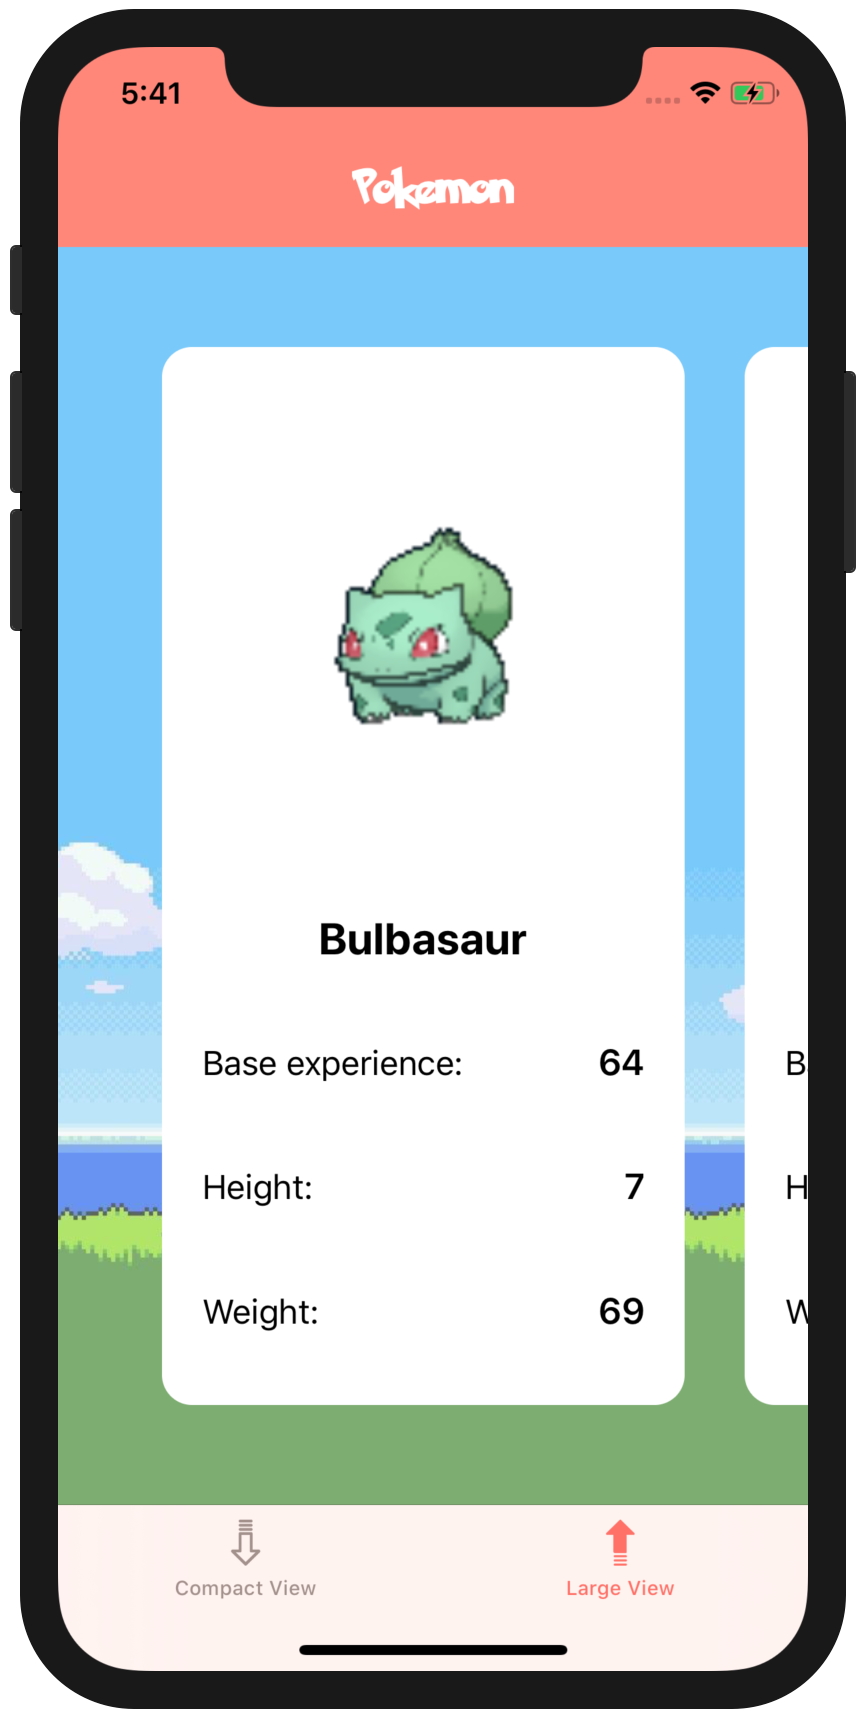
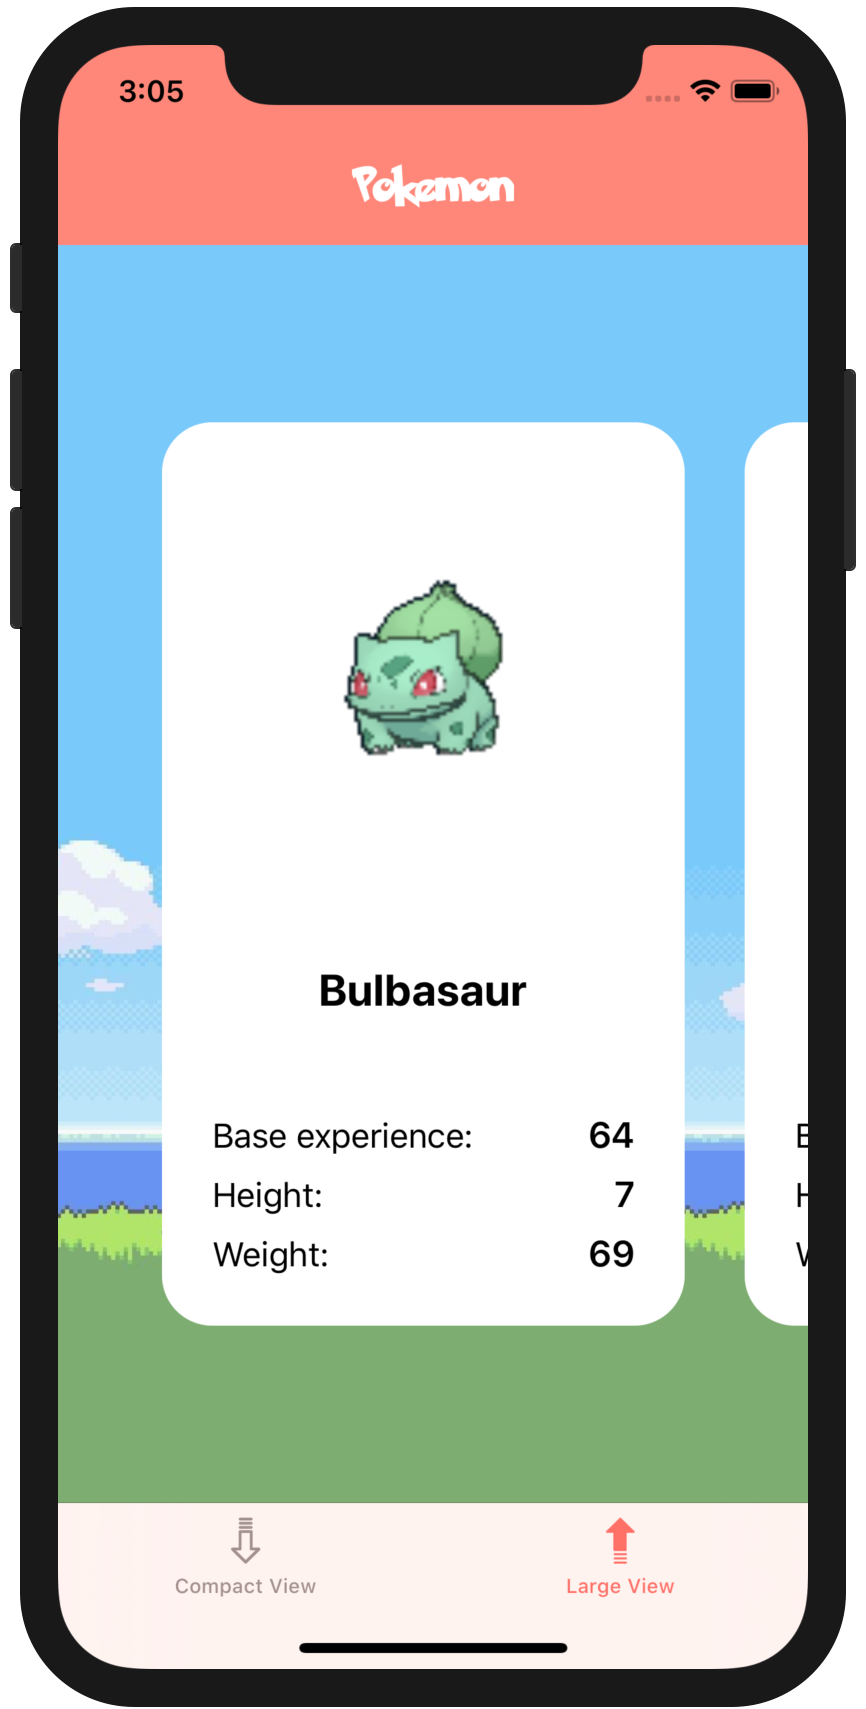
Clean up
Code clean up on the entire project.

diff --git a/Week 06/Pokedex/Pokedex/Views/LayoutCoordinator.swift b/Week 06/Pokedex/Pokedex/Views/LayoutCoordinator.swift
@@ -29,6 +29,7 @@
 /// LIABILITY, WHETHER IN AN ACTION OF CONTRACT, TORT OR OTHERWISE, ARISING FROM,
 /// OUT OF OR IN CONNECTION WITH THE SOFTWARE OR THE USE OR OTHER DEALINGS IN
 /// THE SOFTWARE.
+
 import UIKit
 
 
@@ -44,7 +45,7 @@ class LayoutCoordinator {
     }
   }
   
-  
+
   private static func configureCompactCell() -> UICollectionViewCompositionalLayout {
     let sectionProvider = { (sectionIndex: Int, layoutEnvironment: NSCollectionLayoutEnvironment) -> NSCollectionLayoutSection? in
 
@@ -72,11 +73,13 @@ class LayoutCoordinator {
       let itemSize = NSCollectionLayoutSize(widthDimension: .fractionalWidth(1.0),
                                             heightDimension: .fractionalHeight(1.0))
       let item = NSCollectionLayoutItem(layoutSize: itemSize)
-      item.contentInsets = NSDirectionalEdgeInsets(top: 50, leading: 10, bottom: 50, trailing: 10)
+      item.contentInsets = NSDirectionalEdgeInsets(top: 10, leading: 10, bottom: 10, trailing: 10)
       
       let groupSize = NSCollectionLayoutSize(widthDimension: .fractionalWidth(0.75),
-                                             heightDimension: .fractionalHeight(1.0))
+                                             heightDimension: .fractionalHeight(0.75))
       let group = NSCollectionLayoutGroup.horizontal(layoutSize: groupSize, subitems: [item])
+      group.edgeSpacing = NSCollectionLayoutEdgeSpacing(leading: nil, top: .flexible(0),
+                                                       trailing: nil, bottom: .flexible(0))
 
       let section = NSCollectionLayoutSection(group: group)
       section.orthogonalScrollingBehavior = .groupPagingCentered

diff --git a/Week 06/Pokedex/Pokedex/Resources/csv.swift b/Week 06/Pokedex/Pokedex/Resources/csv.swift
@@ -5,12 +5,14 @@
 
 import Foundation
 
+
 open class CSV {
     open var headers: [String] = []
     open var rows: [Dictionary<String, String>] = []
     open var columns = Dictionary<String, [String]>()
     var delimiter = CharacterSet(charactersIn: ",")
     
+  
     public init(content: String?, delimiter: CharacterSet, encoding: UInt) throws{
         if let csvStringToParse = content{
             self.delimiter = delimiter
@@ -25,6 +27,7 @@ open class CSV {
         }
     }
     
+  
     public convenience init(contentsOfURL url: String) throws {
         let comma = CharacterSet(charactersIn: ",")
         let csvString: String?
@@ -41,6 +44,7 @@ open class CSV {
         return lines[0].components(separatedBy: self.delimiter)
     }
     
+  
     func parseRows(fromLines lines: [String]) -> [Dictionary<String, String>] {
         var rows: [Dictionary<String, String>] = []
         
@@ -64,6 +68,7 @@ open class CSV {
         return rows
     }
     
+  
     func parseColumns(fromLines lines: [String]) -> Dictionary<String, [String]> {
         var columns = Dictionary<String, [String]>()
         
@@ -74,4 +79,5 @@ open class CSV {
         
         return columns
     }
+  
 }

diff --git a/Week 06/Pokedex/Pokedex/Resources/PokemonGenerator.swift b/Week 06/Pokedex/Pokedex/Resources/PokemonGenerator.swift
@@ -29,6 +29,7 @@
 /// LIABILITY, WHETHER IN AN ACTION OF CONTRACT, TORT OR OTHERWISE, ARISING FROM,
 /// OUT OF OR IN CONNECTION WITH THE SOFTWARE OR THE USE OR OTHER DEALINGS IN
 /// THE SOFTWARE.
+
 import Foundation
 
 
@@ -68,13 +69,7 @@ class PokemonGenerator {
     } catch let error {
       print("\(error.localizedDescription)")
     }
-    
     return pokemons
-  }
-  
-  
-  func test() -> [Pokemon] {
-    return generatePokemons()
   }
   
 }

diff --git a/Week 06/Pokedex/Pokedex/Views/LargePokemonCollectionViewCell.swift b/Week 06/Pokedex/Pokedex/Views/LargePokemonCollectionViewCell.swift
@@ -29,6 +29,7 @@
 /// LIABILITY, WHETHER IN AN ACTION OF CONTRACT, TORT OR OTHERWISE, ARISING FROM,
 /// OUT OF OR IN CONNECTION WITH THE SOFTWARE OR THE USE OR OTHER DEALINGS IN
 /// THE SOFTWARE.
+
 import UIKit
 
 
@@ -66,7 +67,7 @@ class LargePokemonCollectionViewCell: UICollectionViewCell {
   
   
   private func configure() {
-    layer.cornerRadius = 15
+    layer.cornerRadius = 25
   }
   
 }

diff --git a/Week 06/Pokedex/Pokedex/Supporting files/AppDelegate.swift b/Week 06/Pokedex/Pokedex/Supporting files/AppDelegate.swift
@@ -32,6 +32,7 @@
 
 import UIKit
 
+
 @UIApplicationMain
 class AppDelegate: UIResponder, UIApplicationDelegate {
   func application(_ application: UIApplication, didFinishLaunchingWithOptions launchOptions: [UIApplication.LaunchOptionsKey: Any]?) -> Bool {

diff --git a/Week 06/Pokedex/Pokedex/Models/Format.swift b/Week 06/Pokedex/Pokedex/Models/Format.swift
@@ -29,6 +29,7 @@
 /// LIABILITY, WHETHER IN AN ACTION OF CONTRACT, TORT OR OTHERWISE, ARISING FROM,
 /// OUT OF OR IN CONNECTION WITH THE SOFTWARE OR THE USE OR OTHER DEALINGS IN
 /// THE SOFTWARE.
+
 import Foundation
 
 

diff --git a/Week 06/Pokedex/Pokedex/Models/Pokemon.swift b/Week 06/Pokedex/Pokedex/Models/Pokemon.swift
@@ -29,6 +29,7 @@
 /// LIABILITY, WHETHER IN AN ACTION OF CONTRACT, TORT OR OTHERWISE, ARISING FROM,
 /// OUT OF OR IN CONNECTION WITH THE SOFTWARE OR THE USE OR OTHER DEALINGS IN
 /// THE SOFTWARE.
+
 import Foundation
 
 

diff --git a/Week 06/Pokedex/Pokedex/Models/Section.swift b/Week 06/Pokedex/Pokedex/Models/Section.swift
@@ -29,6 +29,7 @@
 /// LIABILITY, WHETHER IN AN ACTION OF CONTRACT, TORT OR OTHERWISE, ARISING FROM,
 /// OUT OF OR IN CONNECTION WITH THE SOFTWARE OR THE USE OR OTHER DEALINGS IN
 /// THE SOFTWARE.
+
 import Foundation
 
 

diff --git a/Week 06/Pokedex/Pokedex/Controllers/CompactFormatViewController.swift b/Week 06/Pokedex/Pokedex/Controllers/CompactFormatViewController.swift
@@ -29,6 +29,7 @@
 /// LIABILITY, WHETHER IN AN ACTION OF CONTRACT, TORT OR OTHERWISE, ARISING FROM,
 /// OUT OF OR IN CONNECTION WITH THE SOFTWARE OR THE USE OR OTHER DEALINGS IN
 /// THE SOFTWARE.
+
 import UIKit
 
 

diff --git a/Week 06/Pokedex/Pokedex/Controllers/LargeFormatViewController.swift b/Week 06/Pokedex/Pokedex/Controllers/LargeFormatViewController.swift
@@ -29,6 +29,7 @@
 /// LIABILITY, WHETHER IN AN ACTION OF CONTRACT, TORT OR OTHERWISE, ARISING FROM,
 /// OUT OF OR IN CONNECTION WITH THE SOFTWARE OR THE USE OR OTHER DEALINGS IN
 /// THE SOFTWARE.
+
 import UIKit
 
 

diff --git a/Week 06/Pokedex/Pokedex/Models/DataManager.swift b/Week 06/Pokedex/Pokedex/Models/DataManager.swift
@@ -29,6 +29,7 @@
 /// LIABILITY, WHETHER IN AN ACTION OF CONTRACT, TORT OR OTHERWISE, ARISING FROM,
 /// OUT OF OR IN CONNECTION WITH THE SOFTWARE OR THE USE OR OTHER DEALINGS IN
 /// THE SOFTWARE.
+
 import UIKit
 
 

diff --git a/Week 06/Pokedex/Pokedex/Views/CompactPokemonCollectionViewCell.swift b/Week 06/Pokedex/Pokedex/Views/CompactPokemonCollectionViewCell.swift
@@ -29,6 +29,7 @@
 /// LIABILITY, WHETHER IN AN ACTION OF CONTRACT, TORT OR OTHERWISE, ARISING FROM,
 /// OUT OF OR IN CONNECTION WITH THE SOFTWARE OR THE USE OR OTHER DEALINGS IN
 /// THE SOFTWARE.
+
 import UIKit
 
 
